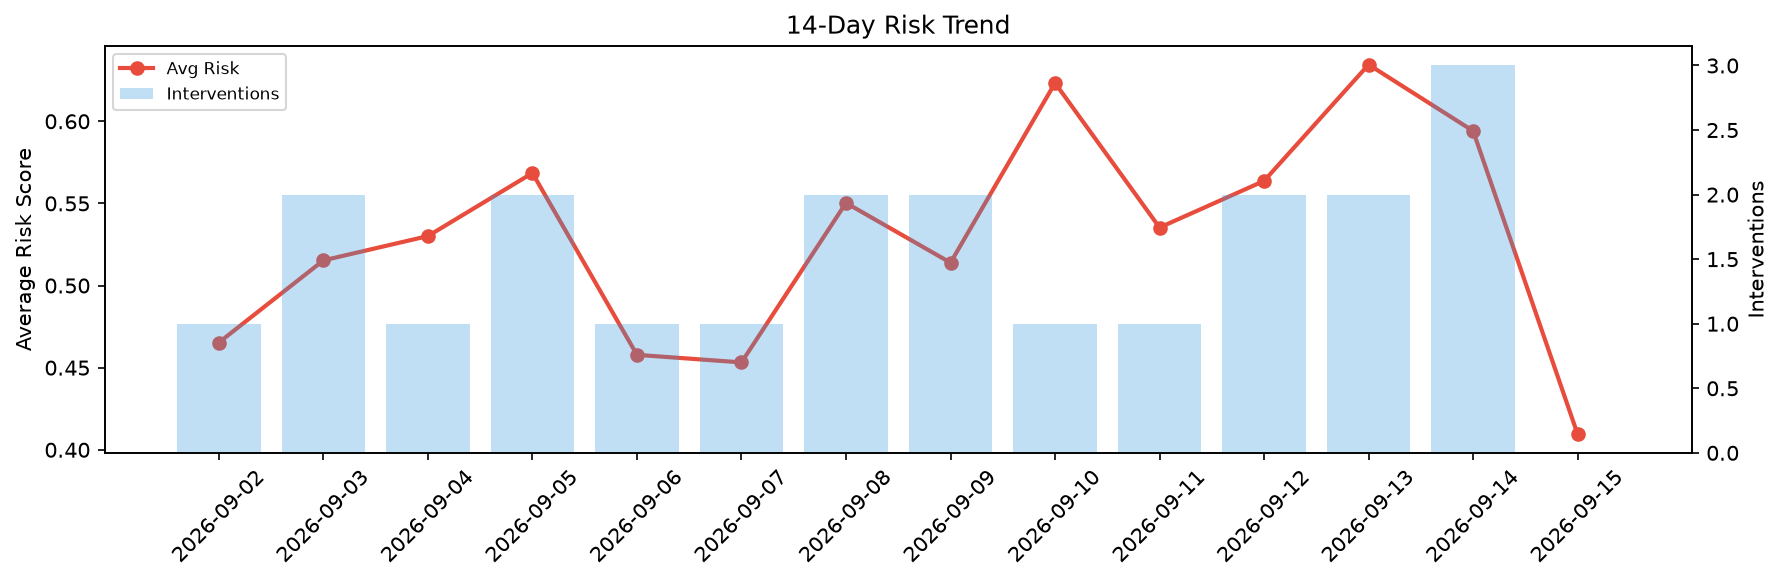
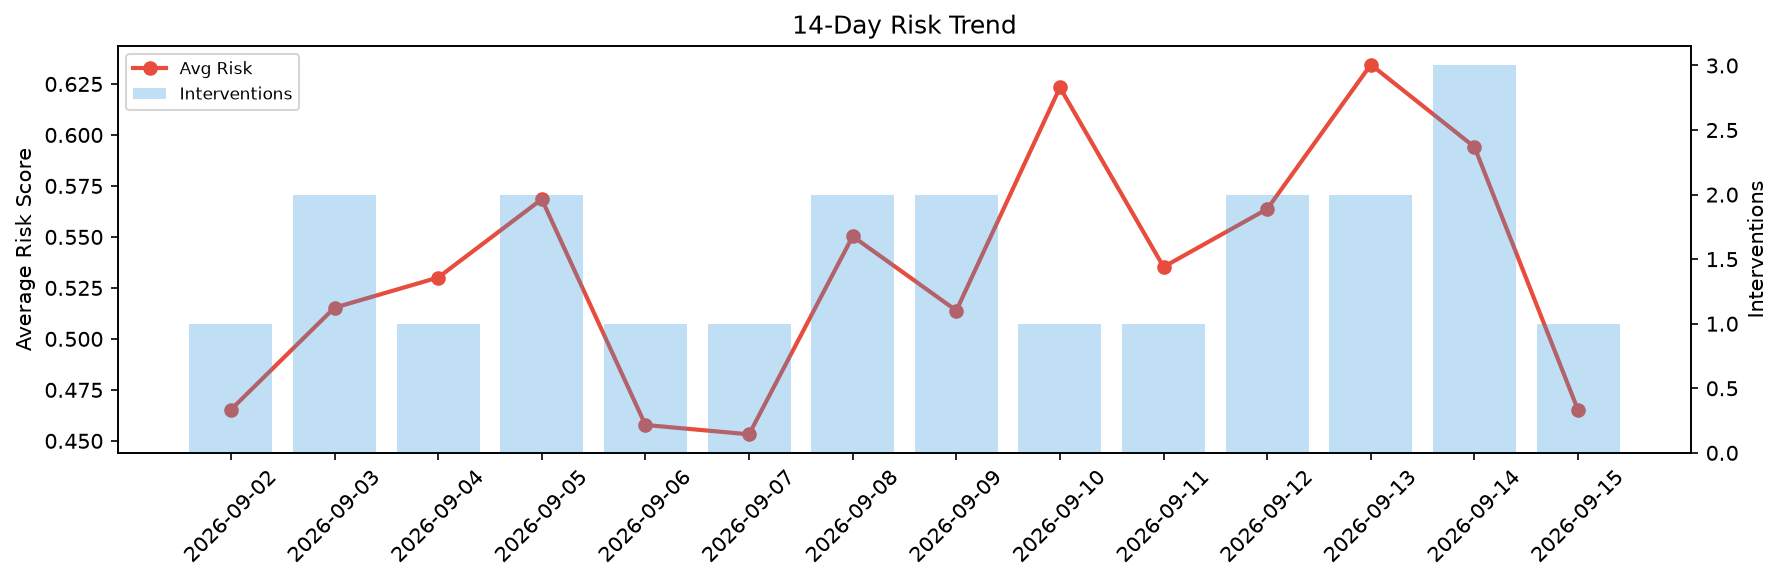
agent-improvement: daily cycle 2026-09-15T18:12

diff --git a/logs/2026-09-15.md b/logs/2026-09-15.md
@@ -1,6 +1,6 @@
 # Agent Improvement Report — 2026-09-15
 
-**Cycle ID:** `c9f5e21e` | **Avg Risk:** 0.4094 | **Interventions:** 0/4
+**Cycle ID:** `4c754b40` | **Avg Risk:** 0.465 | **Interventions:** 1/4
 
 ![Dashboard](2026-09-15_dashboard.png)
 
@@ -10,18 +10,18 @@
 
 | Domain | Risk Score | Decision | Alerts |
 |--------|-----------|----------|--------|
-| code_review | 0.467 | monitor | complexity |
-| incident_response | 0.4025 | monitor | severity |
-| data_pipeline | 0.4523 | monitor | none |
-| deployment | 0.3158 | monitor | none |
+| code_review | 0.278 | monitor | none |
+| incident_response | 0.61 | intervene | mttr |
+| data_pipeline | 0.5479 | monitor | freshness |
+| deployment | 0.4241 | monitor | none |
 
 ## Delta vs Yesterday
 
 | Domain | Today | Yesterday | Change |
 |--------|-------|-----------|--------|
-| code_review | 0.467 | 0.6587 | 📉 -29.1% |
-| incident_response | 0.4025 | 0.676 | 📉 -40.5% |
-| data_pipeline | 0.4523 | 0.6482 | 📉 -30.2% |
-| deployment | 0.3158 | 0.3936 | 📉 -19.8% |
+| code_review | 0.278 | 0.6587 | 📉 -57.8% |
+| incident_response | 0.61 | 0.676 | 📉 -9.8% |
+| data_pipeline | 0.5479 | 0.6482 | 📉 -15.5% |
+| deployment | 0.4241 | 0.3936 | 📈 7.7% |
 
-**Refinement:** `{'adjustment': 'maintain', 'trend': 'improving', 'window': 4}`
+**Refinement:** `{'adjustment': 'tighten_thresholds', 'trend': 'degrading', 'window': 4}`
